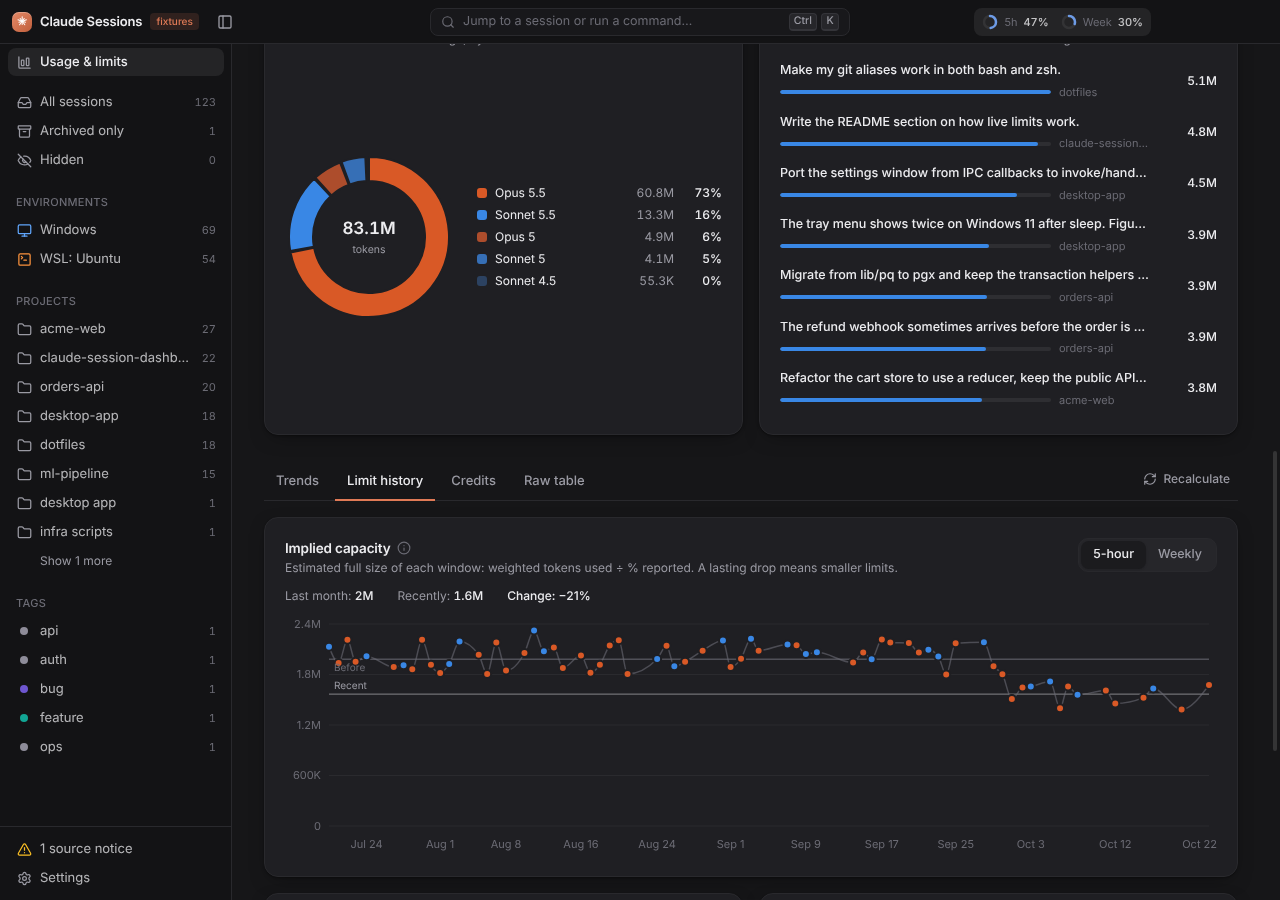
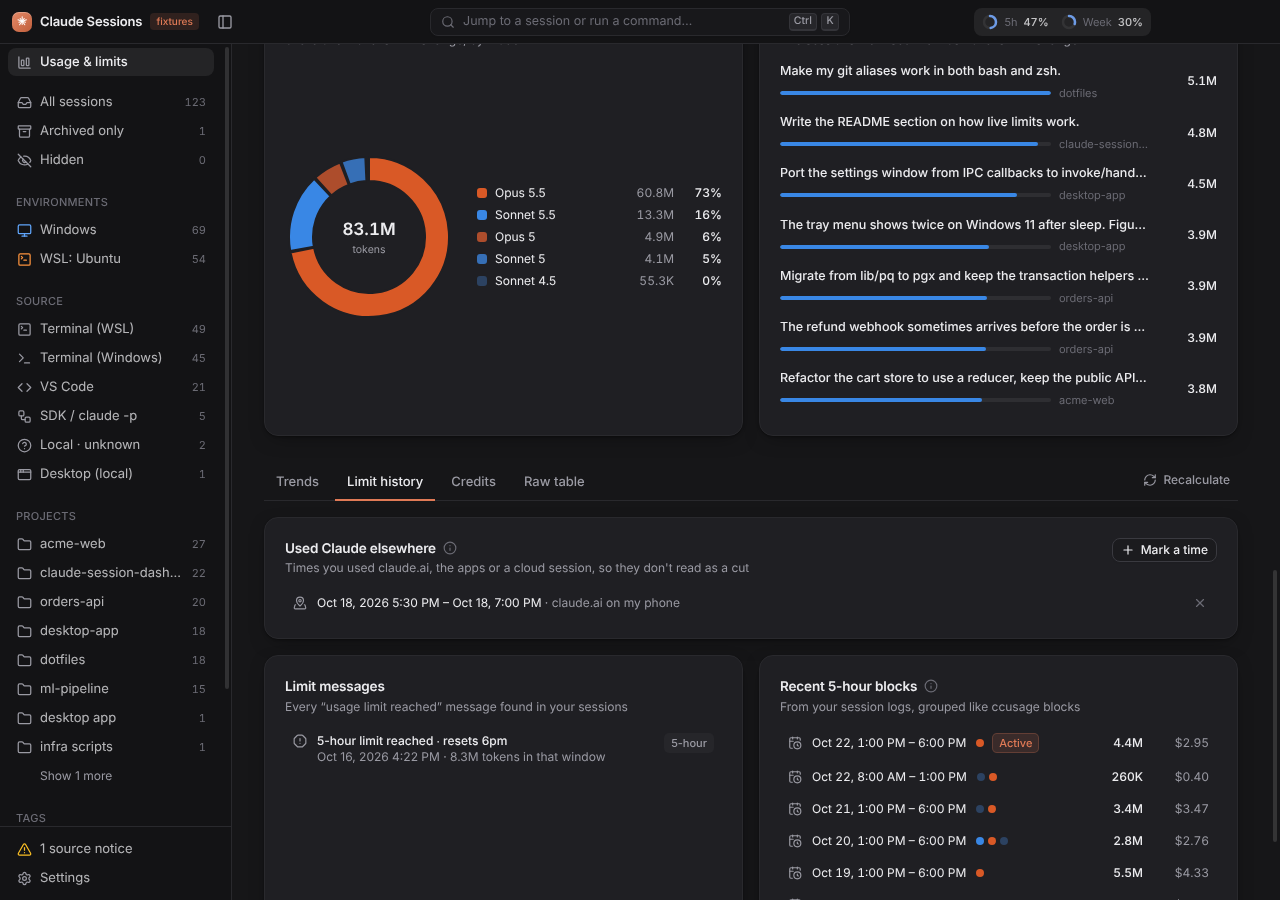
Document limit health, pacing, sources, Ask Claude and the claude.ai import; refresh screenshots
README: feature overview, how source labels are detected, the claude.ai
import, the Limit health method (baseline, plan history, streak flag,
family pricing, usage elsewhere, /usage backfill, compare), Ask Claude
(fixed flags, stdin, what is sent, plan usage, hidden runs), what the pace
and split numbers mean, new data files, and the decisions behind them,
including what was taken from claude-nerf-watcher and claude-usage-pacer.

Screenshots are regenerated (session cards now show source badges) and
include the Limit health card in both themes, compare mode, the Ask Claude
preview and an answer.

Claude-Session: https://claude.ai/code/session_01KDyUuyhiDqeVx6GDLnG2Mt

diff --git a/README.md b/README.md
@@ -23,9 +23,17 @@ resumes any session in a terminal with its full context.
 - **Full-text search** across names, descriptions, tags and all message text, plus filters for
   project, environment, tag, date range and hidden sessions.
 - **Usage & limits** (<kbd>Ctrl</kbd>+<kbd>U</kbd>): your real 5-hour and weekly plan percentages
-  (opt-in), every token you've used since the first session, per model / session / project / day,
-  API credits and cost, model trends ("is it nerfed?") and a limit-change detector. Also in the
-  tray, a mini meter and the title bar. See [Usage, limits and API credits](#usage-limits-and-api-credits).
+  (opt-in) with pacing, every token you've used since the first session, per model / session /
+  project / source / day, API credits and cost, model trends ("is it nerfed?") and **Limit health**,
+  which checks whether each 1% of your plan still buys as much work as it used to. Also in the tray,
+  a mini meter and the title bar. See [Usage, limits and API credits](#usage-limits-and-api-credits).
+- **Where each session came from.** Every session is labelled with the product that ran it
+  (Terminal on Windows or WSL, VS Code, JetBrains, the desktop app, the SDK / `claude -p`, or a cloud
+  session teleported here), with a Source filter in the sidebar.
+- **Ask Claude** about your usage ("Have my limits dropped?") through the official CLI on your own
+  plan. Only aggregated numbers are sent, and you see exactly what first.
+- **claude.ai conversations too.** Import a claude.ai data export to read and search those
+  conversations next to your sessions (view only).
 - **Keyboard first.** <kbd>Ctrl</kbd>+<kbd>K</kbd> command palette, <kbd>J</kbd>/<kbd>K</kbd> to move,
   <kbd>Ctrl</kbd>+<kbd>Enter</kbd> to resume, <kbd>?</kbd> for every shortcut. Light, dark and
   system themes.
@@ -47,7 +55,8 @@ The app is built around these rules (see `CLAUDE.md`):
    when you click them.
 
 Phase 5 ([`docs/PHASE-5-USAGE-TRACKING.md`](docs/PHASE-5-USAGE-TRACKING.md)) adds exactly two
-exceptions, and each one only happens after you approve it in the app:
+exceptions, and each one only happens after you approve it in the app (the later additions below
+add none):
 
 - **Live limits** changes the `statusLine` key in a `~/.claude/settings.json`, and nothing else in
   `.claude`. You see the exact diff first, the file is backed up to the app's data folder, and
@@ -56,6 +65,11 @@ exceptions, and each one only happens after you approve it in the app:
 - **Admin API keys** let the app call two read-only reporting endpoints on `https://api.anthropic.com`
   (usage report and cost report). No other host, no other endpoint, and never any session content.
   Standard API keys cause no network calls at all.
+
+Two later features stay inside the rules: **Import claude.ai data export** only reads the zip you
+pick (it is never written) and stores the conversations in the app's archive, and **Ask Claude**
+makes no network call itself: it starts your own `claude` CLI, which talks to Anthropic as it always
+does, with no tools, and only after you've seen what will be sent.
 
 ## Run it on Windows
 
@@ -120,6 +134,18 @@ The executables aren't code-signed, so Windows SmartScreen may warn you the firs
 - **Search:** press <kbd>/</kbd> and type. Results are sorted by relevance; a small "in messages" label
   means the match is in the conversation rather than the name or tags.
 - **New session:** "New session in this folder…" in a session's ⋯ menu or the command palette.
+- **Source labels:** each session card has a small badge for the product that ran it, and the
+  sidebar's **Source** section filters by it. The label comes from the `entrypoint` Claude Code 2.x
+  writes on every line (`cli`, `claude-vscode`, `claude-desktop`, `sdk-cli` for `claude -p`,
+  `remote…` for cloud sessions), the claude.ai/code link a cloud session logs, IDE context attached
+  to a CLI session (JetBrains when the IDE is named), whether the app launched it, and finally the
+  working folder. Older versions record none of these, so their sessions show **Local · unknown**.
+  Click the badge in a session's header to set it by hand; labels are kept in the app's metadata.
+- **claude.ai conversations:** Settings → Archive → **Import claude.ai data export** (the zip from
+  claude.ai → Settings → Privacy → Export data). The conversations appear under the claude.ai
+  environment with a claude.ai badge: readable, searchable and exportable to Markdown, but with no
+  token stats and no Resume (they never ran in Claude Code). Importing again updates changed
+  conversations; the zip itself is only read.
 - **Settings** (<kbd>Ctrl</kbd>+<kbd>,</kbd>): theme, terminal, the default for skipping permissions,
   scan sources with their status, extra folders, the archive location and size, and each Claude
   home's `cleanupPeriodDays` (read-only).
@@ -154,30 +180,43 @@ gauges in the title bar, or from the tray icon.
 
 - **Live limits:** two ring gauges for the **5-hour window** and **this week**, the same percentages
   Claude Code shows in `/usage`, with a reset countdown, the tokens you used in that window (from your
-  logs) and a pace line ("On pace to hit 100% at 4:30 PM"). Desktop notifications at 75% and 90%
+  logs) and a projection ("On pace to hit 100% at 4:30 PM"). Desktop notifications at 75% and 90%
   (Settings → Live limits; change or turn off).
+- **Pacing:** a tick on each gauge marks where your usage should be by now to end the window at
+  your cap (90% by default), with **Behind / On pace / Ahead** and the room you have left per hour.
+  A line of advice under the gauges treats the weekly window as the main limit.
+- **Limit health:** is each 1% of your plan buying less work than it used to? See
+  [Limit health](#limit-health-did-my-limits-get-smaller) below. Next to it, **Where your limits
+  went** splits the current windows by source, with an "Elsewhere" slice for usage your logs don't
+  explain (claude.ai, the apps, cloud sessions).
+- **Ask Claude:** a side panel with suggested questions and a free-text box. See
+  [Ask Claude](#ask-claude).
 - **Every token, forever:** read from every session file and from the app's archive, so history
   survives Claude Code's cleanup. Today / this week / this month / all-time cards (click one to
   filter the charts), a stacked chart of input, output, cache-write and cache-read tokens by
   day/week/month with a date range picker and model filter, a model share donut, the top sessions,
-  and a raw table with breakdowns by model, session, project, environment, Claude Code version or
-  billing. CSV export. Per-session usage appears at the top of each session.
+  and a raw table with breakdowns by model, session, project, environment, Claude Code version,
+  billing or source. CSV export. Per-session usage appears at the top of each session.
 - **API credits:** run any session on an API key instead of your plan, track credit grants, spending,
   burn rate and "lasts ~N days", and (with an Admin key) your organization's cost report.
 - **Trends ("is it nerfed?") and limit history:** weekly indicators per model and per Claude Code
-  version, with markers for new models, updates and capacity changes, a compare mode, and the
-  implied-capacity history that flags "Your effective 5-hour capacity looks ~25% lower than last month".
+  version, with markers for new models, updates, plan changes and $-per-1% changes, and a compare
+  mode. The Limit history tab lists every "limit reached" message, recent 5-hour blocks, and the
+  times you marked as "used Claude elsewhere".
 - **At a glance:** small gauges in the title bar, a tray icon with the 5-hour % (hover for both
   windows, click to open Usage), and an always-on-top **mini meter** you can drag anywhere (it
   remembers where).
 
-|                                          |                                                 |
-| ---------------------------------------- | ----------------------------------------------- |
-| ![Limit gauges (dark)](docs/limits.png)  | ![Limit gauges (light)](docs/limits-light.png)  |
-| ![Credits card (dark)](docs/credits.png) | ![Credits card (light)](docs/credits-light.png) |
-| ![Charts](docs/usage-charts.png)         | ![Trends](docs/trends.png)                      |
-| ![Limit history](docs/limit-history.png) | ![Credits tab](docs/credits-tab.png)            |
-| ![Usage (light)](docs/usage-light.png)   | ![Mini meter](docs/mini-meter.png)              |
+|                                                    |                                                      |
+| -------------------------------------------------- | ---------------------------------------------------- |
+| ![Limit gauges (dark)](docs/limits.png)            | ![Limit gauges (light)](docs/limits-light.png)       |
+| ![Credits card (dark)](docs/credits.png)           | ![Credits card (light)](docs/credits-light.png)      |
+| ![Charts](docs/usage-charts.png)                   | ![Trends](docs/trends.png)                           |
+| ![Limit history](docs/limit-history.png)           | ![Credits tab](docs/credits-tab.png)                 |
+| ![Usage (light)](docs/usage-light.png)             | ![Mini meter](docs/mini-meter.png)                   |
+| ![Limit health](docs/limit-health.png)             | ![Limit health (light)](docs/limit-health-light.png) |
+| ![Compare two date ranges](docs/limit-compare.png) | ![Ask Claude](docs/ask-claude.png)                   |
+| ![What Ask Claude sends](docs/ask-preview.png)     |                                                      |
 
 ### Turn on live limits
 
@@ -267,6 +306,76 @@ make it that project's default; the overall default is in Settings.
   most likely means API. Otherwise the billing shows as unknown. You can't detect it from the log
   files alone.
 
+### Limit health ("did my limits get smaller?")
+
+![Limit health](docs/limit-health.png)
+
+Each 5-hour (and weekly) window gets one score: **API-equivalent dollars per 1%**. The app prices
+the tokens you used in the window (from your logs, subagents included, each response counted once)
+at the price table's API rates for input, output, cache reads and 5-minute / 1-hour cache writes,
+and divides by the % the window reached. A higher score means 1% bought more work.
+
+1. **Pick your normal dates** on the card: a stretch when your limits felt normal. The median score
+   of those windows is your **baseline**, stored per 1x of plan.
+2. **Plan history** (Settings → Limit health): Pro = 1x, Max 5x = 5x, Max 20x = 20x, or a custom
+   multiplier, each with a start date. Every window is compared with baseline × the multiplier of
+   the plan it ran on, so one baseline works across plans and an upgrade doesn't read as a cut. With
+   no history, your current plan (Max 5x by default) applies to every window; changing the plan in
+   Settings records the switch for you. The chart marks plan changes.
+3. **The verdict.** "Possible reduction" only when the last **2** finished windows in a row (setting)
+   fell below baseline ÷ **1.5** (setting). Windows under **10%** are skipped as too coarse. Until
+   there are enough windows it says "Not enough data yet, N windows needed".
+4. **Token mix.** Hover a bar to see how its dollars split between input, output, cache reads and
+   cache writes; a big shift in mix can move the score on its own.
+5. **Compare** two date ranges side by side ($ per 1% per 1x, as measured, plans and mix) with the %
+   change.
+
+Details that keep the score honest:
+
+- **One price per model family** (on by default): every Opus model is priced at the newest Opus in
+  your price table, and the same for Sonnet and Haiku. Without it, moving to a model with lower API
+  prices (Opus 5.5 costs less than Opus 5) looks like a smaller limit.
+- **Usage elsewhere.** Usage from claude.ai, the apps, cloud sessions or another computer raises
+  the % with no matching local tokens, which looks like a cut. When the % rose while nothing ran on
+  this computer, that part is clear evidence; windows where it's 25% or more (setting) are left out
+  of the baseline and the verdict, and drawn dashed. The rest is estimated from your baseline and
+  shown as a warning on the window, because a real cut looks the same. You can also mark time
+  ranges as "used Claude elsewhere" (Limit history tab).
+- **Backfill.** If you ran `/usage` in Claude Code before turning on live limits, the percentages it
+  printed are in your transcripts. The app reads them as extra readings (reset times like "Resets
+  7pm (America/Los_Angeles)" are parsed in that time zone).
+- It's a trend indicator, not proof: Anthropic's limits aren't published as token counts.
+
+The method comes from [claude-nerf-watcher](https://github.com/One-Lyf/claude-nerf-watcher) and the
+pacing from [claude-usage-pacer](https://github.com/One-Lyf/claude-usage-pacer) (both MIT). Both of
+those read Claude's OAuth token and call an undocumented usage endpoint; this app does neither. Its
+percentages come only from the status line bridge and recorded `/usage` output.
+
+### Ask Claude
+
+![Ask Claude](docs/ask-claude.png)
+
+**Ask Claude** (Usage view, or the Limit health card) answers questions like "Have my limits
+dropped?", "Why did I hit my limit Tuesday?" or "Compare this month to last month".
+
+- It runs your own Claude Code: the Windows install if there is one, otherwise the default WSL
+  distro. The command is fixed:
+  `claude -p --output-format json --tools "" --strict-mcp-config`, so Claude has **no tools** and no
+  MCP servers, and `--dangerously-skip-permissions` is never used. The question and the data go in
+  on **stdin**, never on the command line. `ANTHROPIC_API_KEY` is removed from its environment so
+  your plan is used.
+- **Only aggregated numbers are sent**, as compact JSON: window scores and ratios, the baseline,
+  plan history, pace, daily and monthly token totals, the dates models and Claude Code versions
+  first appeared, untracked-usage estimates and when limits were reached. No session titles,
+  project names, ids or conversation text. Before the first question you see exactly what will be
+  sent, with "Don't show again" (Settings → Ask Claude turns the preview back on).
+- A timeout (180 s by default) and **Cancel** stop the run. Answers show as formatted text with a
+  Copy button, and every question and answer is kept in the app's `ask-history.json`.
+- **It uses your plan's usage**, like any Claude Code prompt. Claude Code also logs each run as a
+  session; the app recognises them by the marker at the start of the prompt, labels them **Ask
+  Claude (dashboard)** and hides them from the list (pick that source in the sidebar to see them).
+  Their tokens still count in Usage.
+
 ### What the numbers mean (and their limits)
 
 - **5-hour / weekly %**: exactly what Claude Code reported in its last status line update. "Updated
@@ -292,10 +401,14 @@ make it that project's default; the overall default is in Settings.
   own `cost.total_cost_usd` for each API-billed session and only falls back to the price table when
   that's missing.
 - **Period cards**: the change compares with the same elapsed part of the previous day, week or month.
-- **Implied capacity**: for each window, weighted tokens used ÷ the reported %. Weights (Settings →
-  Usage) default to API price ratios: output ×5, cache write ×1.25, input ×1, cache read ×0.1.
-  Anthropic's limits aren't purely token counts, so read this as a trend: a lasting drop of 15% or
-  more versus the previous month is flagged. Points are colored by the window's main model family.
+- **Pace target**: cap × the share of the window that has passed. Within ±5 points (setting) is on
+  pace; "room left per hour" is how many points per hour you can still use and end at the cap.
+- **$ per 1%** (Limit health): see above. The older **implied capacity** (weighted tokens ÷ %, with
+  the weights in Settings → Usage) is still computed, but the Limit health score replaces its chart,
+  its banner and its trend markers.
+- **Where your limits went**: the local part of a window's % is split by each source's share of the
+  API-equivalent dollars; "Elsewhere" is the part your logs don't explain (estimated from the
+  baseline when you have one, otherwise only rises while nothing ran here).
 - **Trends**: weekly per model or per Claude Code version: output per response and per request,
   response time (median, ignoring gaps over 10 minutes), tool error rate, API errors and retries,
   assistant turns and tool calls per request, interruptions and corrections (messages after an
@@ -342,6 +455,9 @@ records of sessions whose files are gone are kept as they were.
 | `usage\records-YYYY-MM.ndjson`                          | One line per API response: time, session, project, environment, model, version, stop reason, every token count |
 | `usage\turns-YYYY-MM.ndjson`, `usage\limit-hits.ndjson` | Per-request metrics for Trends, and every "usage limit reached" message                                        |
 | `limits-history.ndjson`                                 | Every status line reading                                                                                      |
+| `usage\usage-readings.ndjson`                           | Limit readings found in `/usage` output in transcripts (backfill)                                              |
+| `ask-history.json`                                      | Ask Claude questions and answers                                                                               |
+| `archive\claude-ai\`                                    | Conversations imported from a claude.ai data export                                                            |
 | `accounts.json`                                         | API keys (encrypted), credit grants, cached Admin reports                                                      |
 | `bridge.json`, `backups\settings\`                      | What the installer changed, and the `settings.json` backups                                                    |
 
@@ -463,6 +579,34 @@ These are choices I made where the spec left room, or had to deviate:
   the `sh` bridge is tested there. Manual check:
   `'{"session_id":"t","model":{"display_name":"Opus"},"rate_limits":{"five_hour":{"used_percentage":12,"resets_at":1738425600}}}' | powershell -NoProfile -File resources\bridge\statusline.ps1`
   should print `Opus · 5h 12%` and create `%USERPROFILE%\.claude-session-dashboard\live\t.json`.
+
+### Limit health, sources and Ask Claude: decisions
+
+- **What came from each reference.** From claude-nerf-watcher: the $-per-1% score, family pricing,
+  the median baseline over trusted dates stored per 1x, plan history with multipliers and chart
+  markers, the streak flag (threshold 1.5, streak 2), skipping windows under 10%, showing the token
+  mix, and backfilling readings from transcripts. From claude-usage-pacer: the cap × elapsed pace
+  target, Behind / On pace / Ahead with a tolerance, room per hour, and weekly-first advice. The
+  code is our own (TypeScript, on bridge data); `THIRD_PARTY_NOTICES` carries both MIT notices.
+- **Family pricing is on by default** because the sample data showed the problem: moving from
+  Opus 5 to the cheaper Opus 5.5 alone made the score drop ~25%.
+- **Only clear outside usage excludes a window.** The estimated part can't tell usage elsewhere from
+  a real cut (both mean local tokens explain less of the %), so excluding on it would hide the very
+  thing the detector looks for. It is shown as a warning instead.
+- **The sample data stays "Normal"** on purpose: it was generated with a ~25% cut on Oct 1, which
+  shows as ~0.8x, above the default flag line (0.67x). Lower the threshold to see it flagged, or
+  use Compare (−23%).
+- **Source detection** was checked against real Claude Code 2.1 transcripts (`entrypoint`,
+  `remote_session_change`) and the CLI's own list of entrypoints. JetBrains runs the plain CLI, so
+  it's only recognised when IDE context names the IDE.
+- **`/usage` output format**: the "Current session / Current week (all models) … N% used · Resets …"
+  panel text; other sections (Sonnet only, extra usage) are ignored.
+- **Ask Claude flags** were checked against `claude --help` (2.1.309): `--tools ""` disables every
+  built-in tool and `--strict-mcp-config` without `--mcp-config` loads no MCP servers. The runs
+  keep their session logs (no `--no-session-persistence`) so their tokens are counted.
+- **Implied capacity chart** in the Limit history tab was replaced by the "Used Claude elsewhere"
+  list, since the Limit health card supersedes it.
+- **The claude.ai importer** has its own small zip reader (Node's zlib), so no new dependency.
 
 ## Troubleshooting
 
